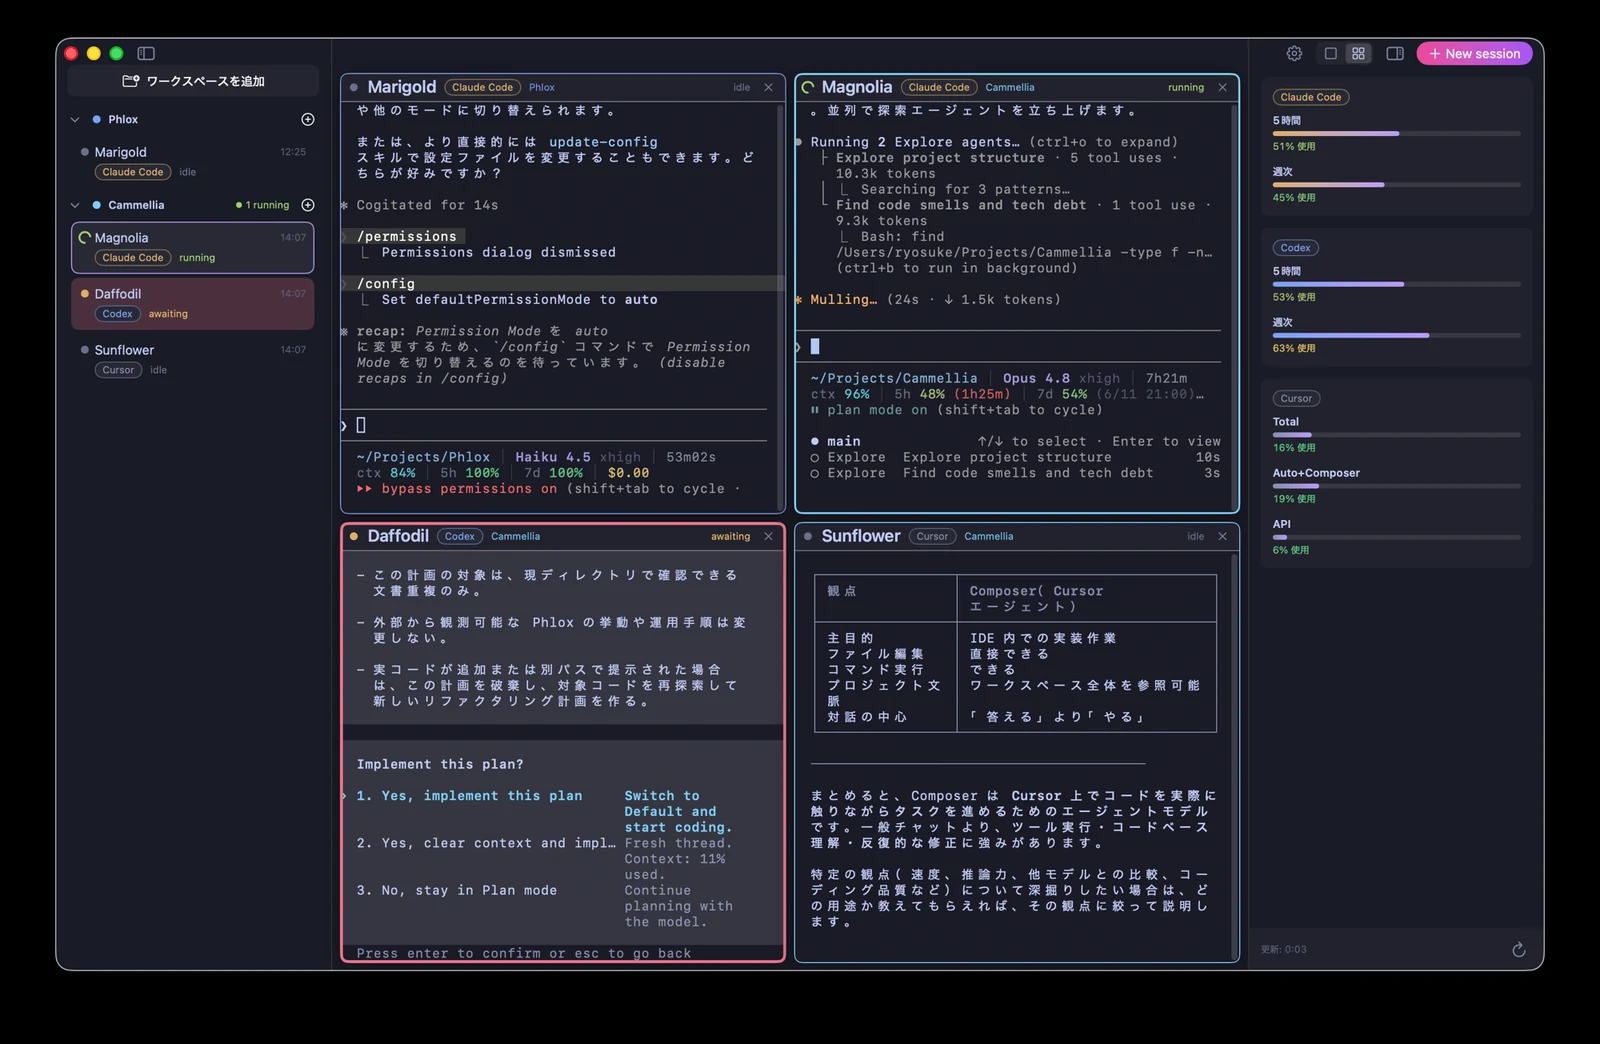
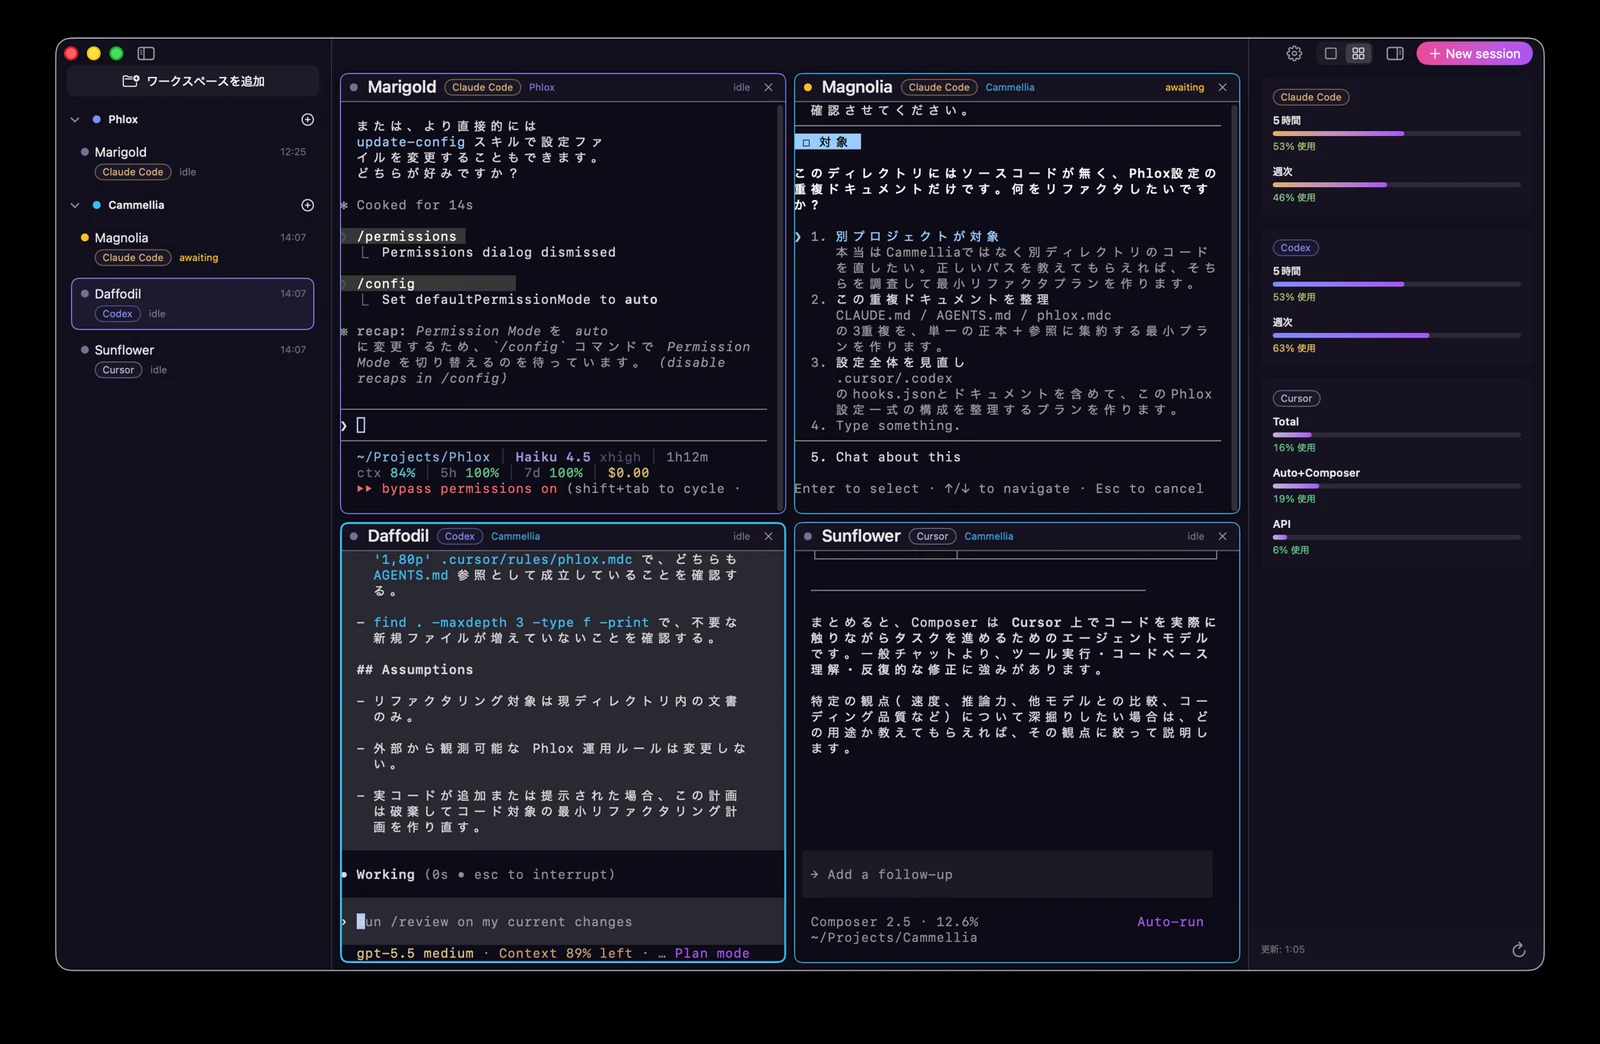
LP: 画像差し替えと機能一覧をbentoグリッドに刷新

diff --git a/styles.css b/styles.css
@@ -9,6 +9,7 @@
   --accent-grad: linear-gradient(135deg, #a855f7 0%, #ec4899 100%);
   --radius: 16px;
   --maxw: 1040px;
+  --mono: ui-monospace, "SF Mono", "JetBrains Mono", Menlo, monospace;
 }
 
 * { box-sizing: border-box; }
@@ -107,23 +108,90 @@ header {
     repeating-linear-gradient(45deg, rgba(255,255,255,0.02) 0 12px, transparent 12px 24px);
 }
 
-/* ---- Features ---- */
-.features { padding: 80px 0; }
-.features h2 { text-align: center; font-size: clamp(26px, 4vw, 36px); margin: 0 0 48px; letter-spacing: -0.01em; }
-.grid {
-  display: grid;
-  grid-template-columns: repeat(3, 1fr);
-  gap: 20px;
+/* ---- Features (bento) ---- */
+.features { padding: 100px 0 80px; position: relative; }
+.features::before {
+  content: "";
+  position: absolute; inset: 0;
+  background: radial-gradient(50% 40% at 80% 0%, rgba(236, 72, 153, 0.10), transparent 70%);
+  pointer-events: none;
 }
-.card {
-  background: var(--card);
+.features .head { position: relative; margin: 0 0 48px; }
+.eyebrow {
+  display: inline-flex; align-items: center; gap: 10px;
+  font: 600 12px/1 var(--mono);
+  letter-spacing: 0.26em; text-transform: uppercase;
+  color: var(--accent);
+}
+.eyebrow::before { content: ""; width: 26px; height: 1px; background: var(--accent-grad); }
+.features h2 {
+  font-size: clamp(28px, 4.6vw, 44px);
+  line-height: 1.08; letter-spacing: -0.02em; font-weight: 800;
+  margin: 16px 0 10px; max-width: 18ch;
+}
+.features .lead { margin: 0; color: var(--muted); font-size: clamp(16px, 2vw, 18px); max-width: 56ch; }
+
+.bento { display: grid; grid-template-columns: repeat(6, 1fr); gap: 16px; }
+.feat {
+  position: relative; isolation: isolate; overflow: hidden;
+  background: linear-gradient(180deg, rgba(26, 22, 38, 0.92), rgba(18, 15, 30, 0.92));
   border: 1px solid var(--border);
-  border-radius: var(--radius);
-  padding: 28px 24px;
+  border-radius: 20px;
+  padding: 28px 26px;
+  transition: transform .25s ease, border-color .25s ease;
 }
-.card .ic { font-size: 26px; margin-bottom: 14px; }
-.card h3 { margin: 0 0 8px; font-size: 19px; }
-.card p { margin: 0; color: var(--muted); font-size: 15px; }
+/* gradient hairline that lights up on hover */
+.feat::after {
+  content: ""; position: absolute; inset: 0; border-radius: inherit; padding: 1px;
+  background: var(--accent-grad);
+  -webkit-mask: linear-gradient(#000 0 0) content-box, linear-gradient(#000 0 0);
+  -webkit-mask-composite: xor; mask-composite: exclude;
+  opacity: 0; transition: opacity .3s ease; pointer-events: none;
+}
+.feat:hover { transform: translateY(-4px); }
+.feat:hover::after { opacity: .85; }
+.feat .k {
+  font: 600 11px/1 var(--mono);
+  letter-spacing: .2em; text-transform: uppercase; color: var(--muted);
+}
+.feat h3 { margin: 16px 0 9px; font-size: clamp(19px, 2.2vw, 22px); letter-spacing: -0.01em; }
+.feat p { margin: 0; color: var(--muted); font-size: 14.5px; line-height: 1.62; }
+
+.feat-a { grid-column: span 4; }
+.feat-usage { grid-column: span 2; grid-row: span 2; display: flex; flex-direction: column; }
+.feat-c, .feat-d { grid-column: span 2; }
+.feat-e, .feat-f { grid-column: span 3; }
+
+/* flagship: live agent panes */
+.panes { display: flex; flex-wrap: wrap; gap: 9px; margin-top: 22px; }
+.pane {
+  display: inline-flex; align-items: center; gap: 8px;
+  font: 600 12px/1 var(--mono); color: var(--text);
+  background: rgba(255, 255, 255, 0.035);
+  border: 1px solid var(--border); border-radius: 999px; padding: 8px 13px;
+}
+.pane .dot { width: 7px; height: 7px; border-radius: 50%; }
+.dot.run  { background: #34d399; box-shadow: 0 0 9px rgba(52, 211, 153, 0.8); }
+.dot.wait { background: #f59e0b; box-shadow: 0 0 9px rgba(245, 158, 11, 0.8); }
+.dot.idle { background: #6f6a8a; }
+
+/* usage monitor mock — echoes the real Inspector sidebar */
+.usage { margin-top: 22px; display: flex; flex-direction: column; gap: 18px; flex: 1; justify-content: center; }
+.ubar .ul { display: flex; justify-content: space-between; align-items: baseline; margin-bottom: 9px; font: 600 12px/1 var(--mono); color: var(--muted); }
+.ubar .ul b { color: var(--text); letter-spacing: .02em; }
+.track { height: 7px; border-radius: 999px; background: rgba(255, 255, 255, 0.07); overflow: hidden; }
+.fill { height: 100%; width: var(--w); border-radius: 999px; background: var(--accent-grad); }
+
+/* scroll reveal (progressively enhanced; full content shown without JS) */
+.js .feat { opacity: 0; transform: translateY(16px); }
+.js .feat.in { opacity: 1; transform: none; transition: opacity .55s ease, transform .55s ease; }
+.js .feat:nth-child(2).in { transition-delay: .06s; }
+.js .feat:nth-child(3).in { transition-delay: .10s; }
+.js .feat:nth-child(4).in { transition-delay: .14s; }
+.js .feat:nth-child(5).in { transition-delay: .18s; }
+.js .feat:nth-child(6).in { transition-delay: .22s; }
+.js .fill { width: 0; }
+.js .feat-usage.in .fill { width: var(--w); transition: width 1.1s cubic-bezier(.2, .7, .2, 1) .25s; }
 
 /* ---- Footer ---- */
 footer {
@@ -135,7 +203,21 @@ footer {
 .foot { display: flex; align-items: center; justify-content: space-between; flex-wrap: wrap; gap: 12px; }
 .foot a:hover { color: var(--text); }
 
+@media (max-width: 1000px) {
+  .bento { grid-template-columns: repeat(2, 1fr); }
+  .feat { grid-column: span 1; grid-row: auto; }
+  .feat-a, .feat-usage, .feat-e, .feat-f { grid-column: span 2; }
+}
 @media (max-width: 760px) {
-  .grid { grid-template-columns: 1fr; }
   .hero { padding: 56px 0 40px; }
+}
+@media (max-width: 620px) {
+  .bento { grid-template-columns: 1fr; }
+  .feat, .feat-a, .feat-usage, .feat-e, .feat-f { grid-column: span 1; }
+}
+
+@media (prefers-reduced-motion: reduce) {
+  .js .feat { opacity: 1; transform: none; }
+  .js .fill { width: var(--w); transition: none; }
+  .feat:hover { transform: none; }
 }

diff --git a/ja/index.html b/ja/index.html
@@ -49,27 +49,79 @@
 
     <section class="features" id="features">
       <div class="container">
-        <h2>コピペではない、本物のオーケストレーション。</h2>
-        <div class="grid">
-          <div class="card">
-            <div class="ic">🪟</div>
-            <h3>1画面に、複数のエージェント</h3>
-            <p>各エージェントが専用のターミナルペインで動作。Codex・Cursor・Claude Code が並列で働く様子を、タブを行き来せずそのまま見られます。</p>
-          </div>
-          <div class="card">
-            <div class="ic">⚡</div>
+        <div class="head">
+          <span class="eyebrow">Features</span>
+          <h2>コピペではない、本物のオーケストレーション。</h2>
+          <p class="lead">Mac 上のすべてのコーディングエージェントを、1つのネイティブ・コックピットに。spawn し、見守り、協調させる。</p>
+        </div>
+
+        <div class="bento">
+          <article class="feat feat-a">
+            <span class="k">01 — Parallel</span>
+            <h3>1画面に、すべてのエージェント</h3>
+            <p>Codex・Cursor・Claude Code が、それぞれ専用のライブ・ターミナルペインで並列に動作。タブを行き来せず、アプリ間で文脈を失うこともありません。</p>
+            <div class="panes">
+              <span class="pane"><span class="dot run"></span>Claude Code</span>
+              <span class="pane"><span class="dot wait"></span>Codex</span>
+              <span class="pane"><span class="dot idle"></span>Cursor</span>
+            </div>
+          </article>
+
+          <article class="feat feat-usage">
+            <span class="k">Live</span>
+            <h3>使用量を、ひと目で</h3>
+            <p>各エージェントのクォータを Inspector に。5時間・週次・合計の上限で。</p>
+            <div class="usage">
+              <div class="ubar"><div class="ul"><span>Claude Code · 5h</span><b>51%</b></div><div class="track"><div class="fill" style="--w:51%"></div></div></div>
+              <div class="ubar"><div class="ul"><span>Codex · 週次</span><b>63%</b></div><div class="track"><div class="fill" style="--w:63%"></div></div></div>
+              <div class="ubar"><div class="ul"><span>Cursor · 合計</span><b>16%</b></div><div class="track"><div class="fill" style="--w:16%"></div></div></div>
+            </div>
+          </article>
+
+          <article class="feat feat-c">
+            <span class="k">02 — Delegate</span>
             <h3>委譲して、待つ</h3>
-            <p>セッションを spawn し、指示を送り、完了を待つ — 完了は Stop フックで自動検知 — そして結果を統合します。</p>
-          </div>
-          <div class="card">
-            <div class="ic">💬</div>
+            <p>セッションを spawn して指示を送ったら、あとは任せるだけ。完了は Stop フックで自動検知し、結果を統合します。</p>
+          </article>
+
+          <article class="feat feat-d">
+            <span class="k">03 — Handoff</span>
             <h3>エージェント同士が会話する</h3>
             <p>セッション間メッセージングで作業を引き継ぎ、文脈を共有。複数エージェントが1つのタスクで協調します。</p>
-          </div>
+          </article>
+
+          <article class="feat feat-e">
+            <span class="k">04 — Status</span>
+            <h3>信頼できるステータス</h3>
+            <p>実行中・待機・入力待ちを自動検知（Codex のプロンプト待ちも含む）。通知とプラン承認プロンプトで、見えないまま止まることがありません。</p>
+          </article>
+
+          <article class="feat feat-f">
+            <span class="k">05 — Layout</span>
+            <h3>ワークスペースとレイアウト</h3>
+            <p>ワークスペースでセッションをまとめ、グリッドを絞り込み、表示モードを切替（⌃⌘G）、サイドバーをトグル（⌘B）。あなたの思うままのコックピットに。</p>
+          </article>
         </div>
       </div>
     </section>
   </main>
+
+  <script>
+    document.documentElement.classList.add('js');
+    (function () {
+      var els = document.querySelectorAll('.feat');
+      if (!('IntersectionObserver' in window)) {
+        els.forEach(function (e) { e.classList.add('in'); });
+        return;
+      }
+      var io = new IntersectionObserver(function (entries) {
+        entries.forEach(function (en) {
+          if (en.isIntersecting) { en.target.classList.add('in'); io.unobserve(en.target); }
+        });
+      }, { threshold: 0.18 });
+      els.forEach(function (e) { io.observe(e); });
+    })();
+  </script>
 
   <footer>
     <div class="container foot">

diff --git a/index.html b/index.html
@@ -49,27 +49,79 @@
 
     <section class="features" id="features">
       <div class="container">
-        <h2>Real orchestration, not copy-paste.</h2>
-        <div class="grid">
-          <div class="card">
-            <div class="ic">🪟</div>
-            <h3>One window, many agents</h3>
-            <p>Each agent runs in its own terminal pane. Watch Codex, Cursor, and Claude Code work in parallel — without juggling tabs.</p>
-          </div>
-          <div class="card">
-            <div class="ic">⚡</div>
+        <div class="head">
+          <span class="eyebrow">Features</span>
+          <h2>Real orchestration, not copy-paste.</h2>
+          <p class="lead">One native cockpit for every coding agent on your Mac — spawn them, watch them, and let them work together.</p>
+        </div>
+
+        <div class="bento">
+          <article class="feat feat-a">
+            <span class="k">01 — Parallel</span>
+            <h3>One window, every agent</h3>
+            <p>Codex, Cursor, and Claude Code each run in their own live terminal pane — side by side, in parallel. No tab-juggling, no context lost between apps.</p>
+            <div class="panes">
+              <span class="pane"><span class="dot run"></span>Claude Code</span>
+              <span class="pane"><span class="dot wait"></span>Codex</span>
+              <span class="pane"><span class="dot idle"></span>Cursor</span>
+            </div>
+          </article>
+
+          <article class="feat feat-usage">
+            <span class="k">Live</span>
+            <h3>Usage at a glance</h3>
+            <p>Every agent's quota in the Inspector — across 5-hour, weekly, and total limits.</p>
+            <div class="usage">
+              <div class="ubar"><div class="ul"><span>Claude Code · 5h</span><b>51%</b></div><div class="track"><div class="fill" style="--w:51%"></div></div></div>
+              <div class="ubar"><div class="ul"><span>Codex · weekly</span><b>63%</b></div><div class="track"><div class="fill" style="--w:63%"></div></div></div>
+              <div class="ubar"><div class="ul"><span>Cursor · total</span><b>16%</b></div><div class="track"><div class="fill" style="--w:16%"></div></div></div>
+            </div>
+          </article>
+
+          <article class="feat feat-c">
+            <span class="k">02 — Delegate</span>
             <h3>Delegate and wait</h3>
-            <p>Spawn a session, send instructions, then wait for completion — detected automatically via Stop hooks — and integrate the result.</p>
-          </div>
-          <div class="card">
-            <div class="ic">💬</div>
+            <p>Spawn a session, send the brief, and let it run. Completion is detected automatically via Stop hooks — then you integrate the result.</p>
+          </article>
+
+          <article class="feat feat-d">
+            <span class="k">03 — Handoff</span>
             <h3>Agents that talk</h3>
-            <p>Built-in messaging lets sessions hand off work and share context, so a fleet of agents can collaborate on one task.</p>
-          </div>
+            <p>Built-in messaging lets sessions hand off work and share context, so a fleet of agents collaborates on one task.</p>
+          </article>
+
+          <article class="feat feat-e">
+            <span class="k">04 — Status</span>
+            <h3>Status you can trust</h3>
+            <p>Running, idle, or waiting for input — detected automatically, including Codex prompt-waits — with notifications and plan-approval prompts so nothing stalls unseen.</p>
+          </article>
+
+          <article class="feat feat-f">
+            <span class="k">05 — Layout</span>
+            <h3>Workspaces &amp; layouts</h3>
+            <p>Group sessions by workspace, filter the grid, switch view modes (⌃⌘G), and toggle the sidebar (⌘B). Your cockpit, your way.</p>
+          </article>
         </div>
       </div>
     </section>
   </main>
+
+  <script>
+    document.documentElement.classList.add('js');
+    (function () {
+      var els = document.querySelectorAll('.feat');
+      if (!('IntersectionObserver' in window)) {
+        els.forEach(function (e) { e.classList.add('in'); });
+        return;
+      }
+      var io = new IntersectionObserver(function (entries) {
+        entries.forEach(function (en) {
+          if (en.isIntersecting) { en.target.classList.add('in'); io.unobserve(en.target); }
+        });
+      }, { threshold: 0.18 });
+      els.forEach(function (e) { io.observe(e); });
+    })();
+  </script>
 
   <footer>
     <div class="container foot">
